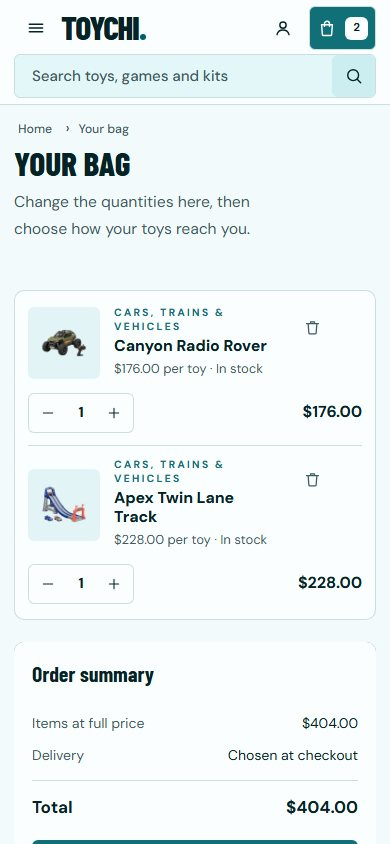
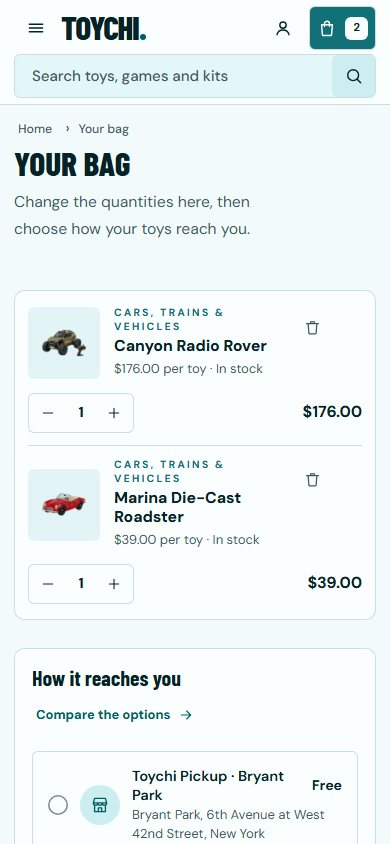
Documentation screenshots from live 1.0.9 (the pages the delivery change touched); LAYOUT.md: the checks, the Truck and Pickup walks and the tablet pass on 1.0.9

diff --git a/LAYOUT.md b/LAYOUT.md
@@ -62,9 +62,11 @@ A guide's address opened fresh (`/blog/<slug>-<blog id>`) draws Play Lab's artic
 ## Checks
 
 <!-- CHECKS:START -->
-**1.0.7 on the live domain (playlab.selldone.shop, 24 Nov 2026), through new-shop-kits/pw-lock.sh:** fast-checks, 221 jobs at 1440, 1024 and 390 px (and 1920–3840 where the check asks), dark and light, Deep teal, Forest, Cobalt, Berry and the custom colours, English and forced Arabic — ring 0, card-edge 0, corner 0, circle 0, contrast 0 (424 states), cart 0, currency 0 (USD, AED, DKK, SAR), box 0, i18n 0, text-col 0, shape 0, underline 0, variant 0: **TOTAL 0** (1.0.0 started at 22 610).
+**1.0.9 on the live domain (playlab.selldone.shop, 24 Nov 2026), through new-shop-kits/pw-lock.sh:** fast-checks, 238 jobs at 1440, 1024, **820** and 390 px (and 1920–3840 where the check asks), dark and light, Deep teal, Forest, Cobalt, Berry and the custom colours, English and forced Arabic — ring 0, card-edge 0, corner 0, circle 0, contrast 0 (516 states), cart 0, currency 0 (USD, AED, DKK, SAR), box 0, i18n 0, text-col 0, shape 0, underline 0, variant 0: **TOTAL 0**.
 
-**Guest checkout walk** (`scripts/checkout-walk.mjs`, 1440 and 390, guest checkout and cash on delivery on): add from a card, the bag drawer, the three-step checkout, the delivery sheet (before an address it says why no way shows), the address sheet with the map (pin placed, address filled and saved), the courier way, Place order → Selldone's payment window (total matches the button) → its ✕, the bag emptied. **WALK OK**; no order placed. (One run on 1.0.6 saw the drawer empty right after an add, a live-service hiccup; the same walk passed before and after.)
+**Guest checkout walks** (`scripts/checkout-walk.mjs`, 1440, 820 and 390, guest checkout and cash on delivery on, the shop's Truck, Motorbike and its Bryant Park pickup point): (1) `ONLY_WAY=Truck ADDRESS_QUERY="Hollywood Boulevard, Los Angeles"` — the pickup point first (its place brings the truck in), then the address found with the sheet's search in Los Angeles, Truck delivery → Place order → Selldone's payment window → its ✕; (2) `ONLY_WAY=Pickup` — Toychi Pickup · Bryant Park with a window → Place order → the payment window → its ✕. Both **WALK OK** at every width; the bag emptied; no order placed.
+
+**Tablet pass** (dev server, 768, 820, 1024, 1180, with the shop's live data; scratch script): every page and the menu, filters and quick view — no row with one card alone, no page wider than the window, no card photo squeezed under its buttons; grid view checked at 390–1440 too.
 
 **A guide opened directly** with a normal Chrome's client hints: route `ShopBlogPageSlug`, Play Lab's article and footer drawn (see "A guide opened directly").
 
